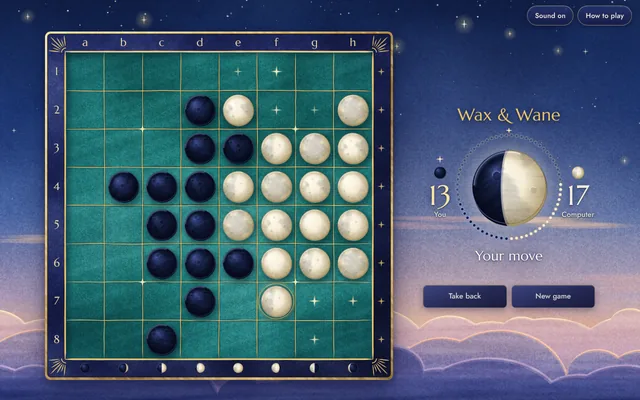
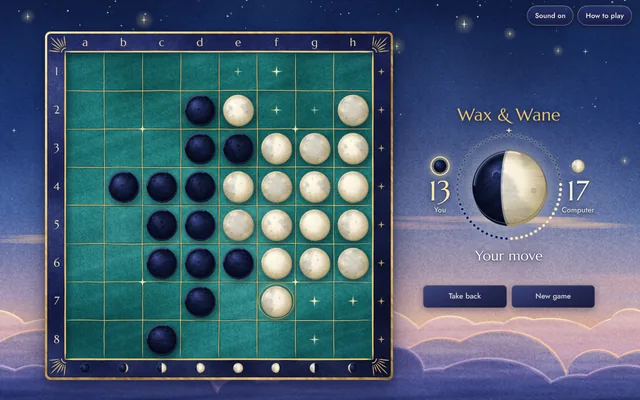
Wax & Wane: a ring for whose move it is, and the house bot goes by "the computer"
A level is named for a phase of the moon and a side for a face of it, so in a
game the house bot is called neither. Whose move it is shows as a gold ring
round that side's disc, which a star in the sky cannot be mistaken for. The
pause on a pass is shorter, and the result is said across the board.

Claude-Session: https://claude.ai/code/session_011yApAo4siUSLo7Te6og2qP

Changed region(s): [[0.875, 0.39, 0.9375, 0.57], [0.6562, 0.39, 0.7188, 0.54]]

diff --git a/sonic-hub-game/games-src/wax-and-wane/game/shell.html b/sonic-hub-game/games-src/wax-and-wane/game/shell.html
@@ -106,12 +106,12 @@
   #hud { width: 100%; margin-top: 8px; display: flex; flex-direction: column; align-items: center; }
   .score { display: grid; grid-template-columns: 1fr auto 1fr; align-items: center; width: 100%; }
   #dial { width: 236px; height: 236px; display: block; margin: 0 -14px; }
-  .who { position: relative; display: flex; flex-direction: column; align-items: center; gap: 1px; padding-top: 22px; min-width: 0; }
+  .who { position: relative; display: flex; flex-direction: column; align-items: center; gap: 1px; min-width: 0; }
   .who .num { font: 400 56px/1 var(--title); color: var(--moon); font-variant-numeric: lining-nums; transition: color .3s; }
   .who .name { font: 500 15px/1.2 var(--text); color: rgba(245,237,216,.88); max-width: 100%; overflow-wrap: anywhere; }
-  .who .disc { width: 26px; height: 26px; margin-bottom: 4px; }
-  .who::before { content: ""; position: absolute; top: 0; left: 50%; width: 17px; height: 17px; translate: -50% 0; background: radial-gradient(#fff6d2, var(--gold) 70%); clip-path: polygon(50% 0, 57% 43%, 100% 50%, 57% 57%, 50% 100%, 43% 57%, 0 50%, 43% 43%); opacity: 0; scale: .4; transition: opacity .25s, scale .25s; }
-  .who.turn::before { opacity: 1; scale: 1; }
+  /* whose move it is: a gold ring round that side's disc, as round the last disc on the board, and its count in gold */
+  .who .disc { width: 28px; height: 28px; margin-bottom: 7px; border-radius: 50%; box-shadow: 0 0 0 0 rgba(251,230,168,0); transition: box-shadow .3s; }
+  .who.turn .disc { box-shadow: 0 0 0 3px rgba(19,36,79,.55), 0 0 0 5px var(--gold-hi), 0 0 16px 6px rgba(251,230,168,.6); }
   .who.turn .num { color: var(--gold-hi); }
   .status { margin: 4px 0 0; min-height: 1.25em; font: 400 27px/1.25 var(--title); color: #fffaf0; letter-spacing: .01em; }
   .sub { margin: 4px 0 0; min-height: 1.45em; font: 400 15.5px/1.45 var(--text); color: rgba(245,237,216,.9); }
@@ -148,7 +148,7 @@
     .go { min-height: 50px; }
     #hud { margin-top: 0; }
     #dial { width: 132px; height: 132px; margin: 0; }
-    .who { padding-top: 16px; } .who .num { font-size: 40px; } .who::before { width: 14px; height: 14px; }
+    .who .num { font-size: 40px; }
     .status { font-size: 22px; margin-top: 0; } .sub { font-size: 15px; margin-top: 1px; }
     .btns { margin-top: 9px; }
     .mini { min-height: 44px; }
@@ -167,13 +167,13 @@
     .plate { min-height: 44px; padding: 4px 8px; } .phases .plate { min-height: 44px; } .phases canvas { width: 30px; height: 30px; }
     .cap { min-height: 2.7em; margin-top: 4px; font-size: 13.5px; line-height: 1.35; } .cap br { display: none; } .cap b { font-size: 15px; } .cap b::after { content: ". "; }
     .go { min-height: 44px; font-size: 20px; }
-    #dial { width: 126px; height: 126px; margin: 0; } .who { padding-top: 16px; } .who .num { font-size: 38px; } .who::before { width: 14px; height: 14px; }
+    #dial { width: 126px; height: 126px; margin: 0; } .who .num { font-size: 38px; }
     .status { font-size: 21px; margin-top: 0; } .sub { font-size: 14px; margin-top: 0; min-height: 2.8em; } .btns { margin-top: 6px; }
     .mini { min-height: 44px; }
     .steps { grid-template-columns: repeat(2, 1fr); gap: 10px 16px; } .sheet { padding: 16px 18px; } .sheet h2 { font-size: 26px; } .sheet .lead { margin-bottom: 10px; }
     .step { grid-template-columns: 100px 1fr; gap: 10px; } .step canvas { width: 100px; height: 75px; } .step p { font-size: 14px; line-height: 1.35; }
   }
-  @media (prefers-reduced-motion: reduce) { .cell.can::before, #stars i { animation: none; } #toast, .plate, .go, .who::before { transition: none; } }
+  @media (prefers-reduced-motion: reduce) { .cell.can::before, #stars i { animation: none; } #toast, .plate, .go, .who .disc { transition: none; } }
 </style>
 </head>
 <body>

diff --git a/sonic-hub-game/public/games/wax-and-wane.html b/sonic-hub-game/public/games/wax-and-wane.html
@@ -113,12 +113,12 @@
   #hud { width: 100%; margin-top: 8px; display: flex; flex-direction: column; align-items: center; }
   .score { display: grid; grid-template-columns: 1fr auto 1fr; align-items: center; width: 100%; }
   #dial { width: 236px; height: 236px; display: block; margin: 0 -14px; }
-  .who { position: relative; display: flex; flex-direction: column; align-items: center; gap: 1px; padding-top: 22px; min-width: 0; }
+  .who { position: relative; display: flex; flex-direction: column; align-items: center; gap: 1px; min-width: 0; }
   .who .num { font: 400 56px/1 var(--title); color: var(--moon); font-variant-numeric: lining-nums; transition: color .3s; }
   .who .name { font: 500 15px/1.2 var(--text); color: rgba(245,237,216,.88); max-width: 100%; overflow-wrap: anywhere; }
-  .who .disc { width: 26px; height: 26px; margin-bottom: 4px; }
-  .who::before { content: ""; position: absolute; top: 0; left: 50%; width: 17px; height: 17px; translate: -50% 0; background: radial-gradient(#fff6d2, var(--gold) 70%); clip-path: polygon(50% 0, 57% 43%, 100% 50%, 57% 57%, 50% 100%, 43% 57%, 0 50%, 43% 43%); opacity: 0; scale: .4; transition: opacity .25s, scale .25s; }
-  .who.turn::before { opacity: 1; scale: 1; }
+  /* whose move it is: a gold ring round that side's disc, as round the last disc on the board, and its count in gold */
+  .who .disc { width: 28px; height: 28px; margin-bottom: 7px; border-radius: 50%; box-shadow: 0 0 0 0 rgba(251,230,168,0); transition: box-shadow .3s; }
+  .who.turn .disc { box-shadow: 0 0 0 3px rgba(19,36,79,.55), 0 0 0 5px var(--gold-hi), 0 0 16px 6px rgba(251,230,168,.6); }
   .who.turn .num { color: var(--gold-hi); }
   .status { margin: 4px 0 0; min-height: 1.25em; font: 400 27px/1.25 var(--title); color: #fffaf0; letter-spacing: .01em; }
   .sub { margin: 4px 0 0; min-height: 1.45em; font: 400 15.5px/1.45 var(--text); color: rgba(245,237,216,.9); }
@@ -155,7 +155,7 @@
     .go { min-height: 50px; }
     #hud { margin-top: 0; }
     #dial { width: 132px; height: 132px; margin: 0; }
-    .who { padding-top: 16px; } .who .num { font-size: 40px; } .who::before { width: 14px; height: 14px; }
+    .who .num { font-size: 40px; }
     .status { font-size: 22px; margin-top: 0; } .sub { font-size: 15px; margin-top: 1px; }
     .btns { margin-top: 9px; }
     .mini { min-height: 44px; }
@@ -174,13 +174,13 @@
     .plate { min-height: 44px; padding: 4px 8px; } .phases .plate { min-height: 44px; } .phases canvas { width: 30px; height: 30px; }
     .cap { min-height: 2.7em; margin-top: 4px; font-size: 13.5px; line-height: 1.35; } .cap br { display: none; } .cap b { font-size: 15px; } .cap b::after { content: ". "; }
     .go { min-height: 44px; font-size: 20px; }
-    #dial { width: 126px; height: 126px; margin: 0; } .who { padding-top: 16px; } .who .num { font-size: 38px; } .who::before { width: 14px; height: 14px; }
+    #dial { width: 126px; height: 126px; margin: 0; } .who .num { font-size: 38px; }
     .status { font-size: 21px; margin-top: 0; } .sub { font-size: 14px; margin-top: 0; min-height: 2.8em; } .btns { margin-top: 6px; }
     .mini { min-height: 44px; }
     .steps { grid-template-columns: repeat(2, 1fr); gap: 10px 16px; } .sheet { padding: 16px 18px; } .sheet h2 { font-size: 26px; } .sheet .lead { margin-bottom: 10px; }
     .step { grid-template-columns: 100px 1fr; gap: 10px; } .step canvas { width: 100px; height: 75px; } .step p { font-size: 14px; line-height: 1.35; }
   }
-  @media (prefers-reduced-motion: reduce) { .cell.can::before, #stars i { animation: none; } #toast, .plate, .go, .who::before { transition: none; } }
+  @media (prefers-reduced-motion: reduce) { .cell.can::before, #stars i { animation: none; } #toast, .plate, .go, .who .disc { transition: none; } }
 </style>
 </head>
 <body>
